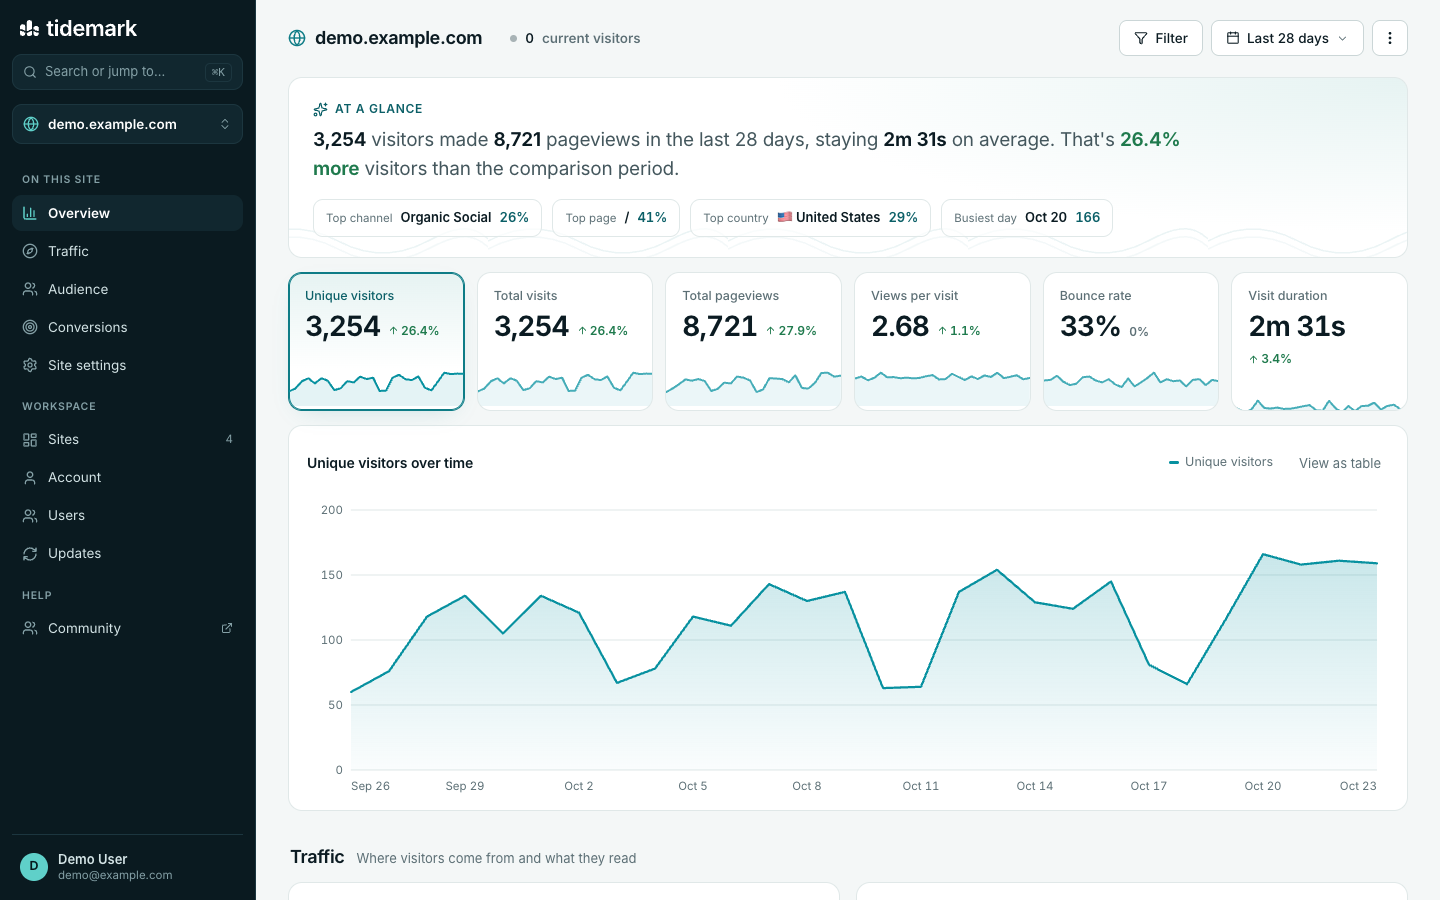
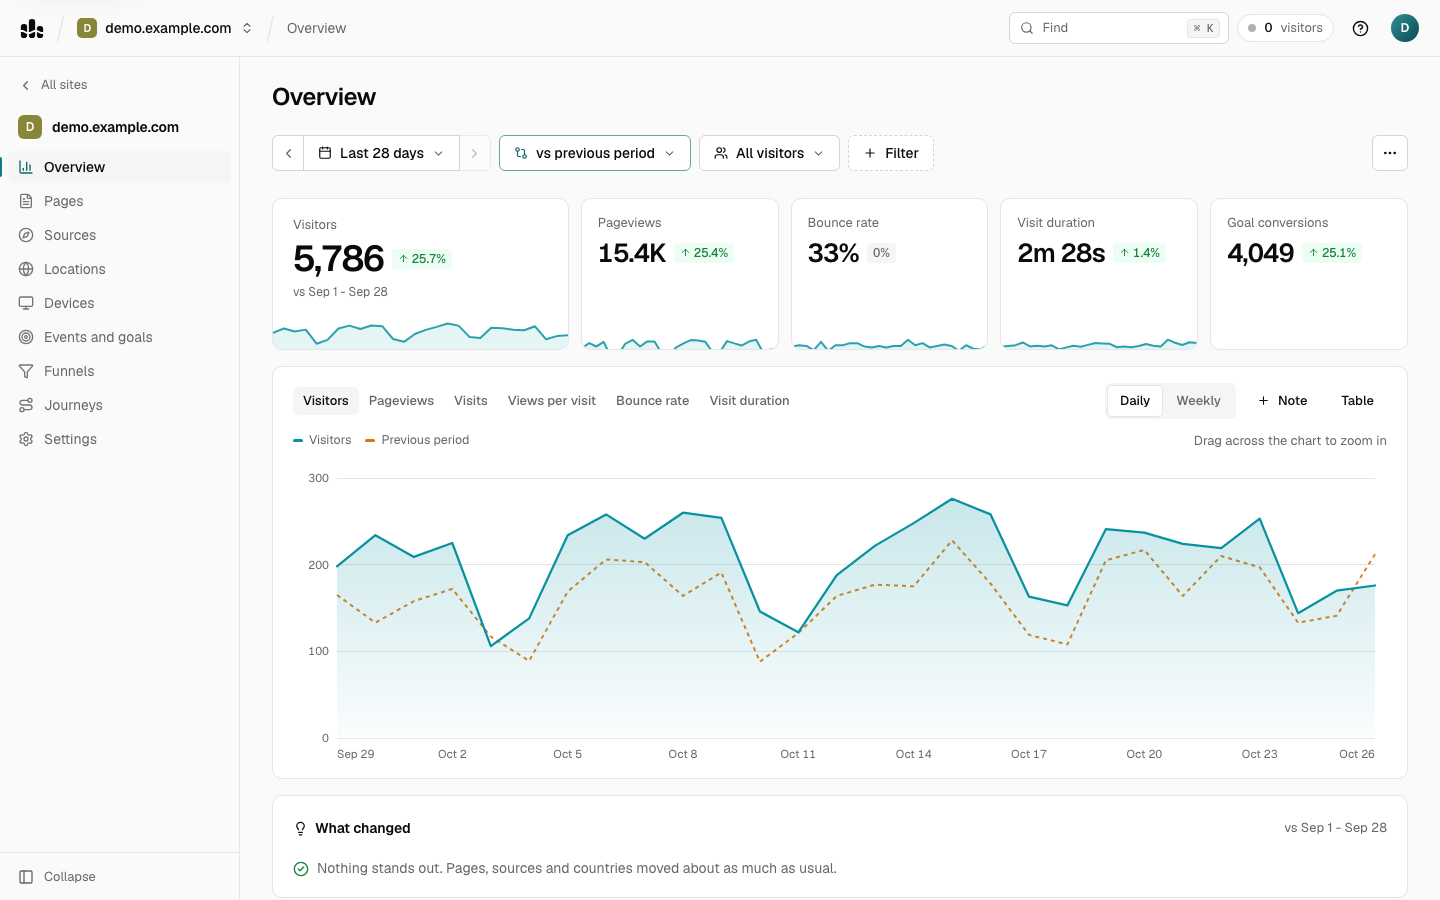
README: new dashboard screenshots, a Tidemark Cloud section, no hosted-version architecture
The screenshots predate the redesign. The README no longer describes how the hosted version is built (the cells decision, the cloud mode setting), and gains a section pointing people who would rather not self-host to Tidemark Cloud.

diff --git a/README.md b/README.md
@@ -24,6 +24,19 @@ Simple, privacy-first web analytics that runs on **ordinary PHP shared hosting**
 - Works on SQLite, MySQL/MariaDB and PostgreSQL
 - Designed to scale out later: swappable event sink, separate analytics database connection, stateless app tier
 
+## Don't want to run it yourself? Tidemark Cloud
+
+The same open-source Tidemark, hosted for you at [tidemarkanalytics.com](https://www.tidemarkanalytics.com): no server, no updates, nothing to install. Sign up, paste one line into your site's `<head>`, and your dashboard is ready.
+
+- **Free to start:** 1 site, 10,000 events a month and 6 months of history, with every report, filter, goal and shared link.
+- **Pro, $7 a month ($70 a year):** unlimited sites, 250,000 events a month, 5 years of history, funnels, revenue, segments, journeys, rollups, alerts and webhooks, and your own logo and color on public dashboards. Need more events? Add packs of 250,000 for $5 whenever you like.
+- **Still private by design:** no cookies and no stored IP addresses, and direct support from inside the app.
+- **Switching?** Import your history from Plausible's CSV export.
+
+[**Try the live demo**](https://app.tidemarkanalytics.com/tidemark) · [**See pricing**](https://www.tidemarkanalytics.com/cloud/) · [**Start free**](https://app.tidemarkanalytics.com/register?utm_source=github&utm_medium=readme&utm_campaign=readme-cloud)
+
+Prefer to host it yourself? Everything below is for you, and it is free under the MIT license.
+
 ## Install on shared hosting (no SSH)
 
 1. Download the latest `tidemark-x.y.z.zip` from [Releases](https://github.com/tidemark-analytics/tidemark/releases/latest) (dependencies are bundled), or build it yourself: `scripts/build-release.sh 0.8.0` → `dist/tidemark-0.8.0.zip`.
@@ -117,8 +130,7 @@ Logo (pictorial mark: pier pilings with a tide line across them), palette, typog
 
 | Variable | Default | Notes |
 |---|---|---|
-| `TIDEMARK_MODE` | `self-hosted` | `cloud` opens registration and enables plan limits |
-| `TIDEMARK_REGISTRATION` | `false` (`true` in cloud) | Allow sign-ups |
+| `TIDEMARK_REGISTRATION` | `false` | Allow sign-ups |
 | `TIDEMARK_INGEST` | `sync` | `queue` buffers writes; drained by `schedule:run` or a worker |
 | `TIDEMARK_ANALYTICS_DB` | *(app DB)* | Separate connection for `visits`, `events` and `event_props` |
 | `TIDEMARK_IGNORE_IP`, `TIDEMARK_HOSTNAMES` | – | Comma-separated lists |
@@ -144,7 +156,7 @@ GET /api/v1/stats/breakdown?site_id=example.com&period=30d&property=visit:source
 
 Filters use `filters=visit:country==DE;event:page==/blog/*`. The dashboard's own JSON endpoints live under `/api/sites/{domain}/stats/…`.
 
-## Architecture & the cloud question
+## Architecture
 
 ```
  browser ──► POST /api/event ──► Collector ──► EventSink ──► analytics DB (visits, events, event_props)
@@ -156,16 +168,9 @@ Filters use `filters=visit:country==DE;event:page==/blog/*`. The dashboard's own
 
 - **Visits, not sessions.** A visit is one row, stitched in the sink: hits from the same visitor within 30 minutes of inactivity extend it (entry/exit page, pageviews, bounce, duration). Reports read visits for most numbers and events for pageviews and goals.
 - **Two logical databases.** Hot, append-only tables go through `TIDEMARK_ANALYTICS_DB`, everything else through the default connection. Tables are keyed by `site_id` and indexed on time, so they partition and shard naturally.
-- **Stateless app tier.** Sessions and cache can move to Redis/DB; any number of PHP workers can serve a cell.
+- **Stateless app tier.** Sessions and cache can move to Redis/DB; any number of PHP workers can serve requests.
 - **Swappable seams.** `EventSink` (writes) and `Stats\Stats` (reads) are the only places that know about the storage engine — a ClickHouse implementation can replace them without touching controllers or the UI.
 - **Privacy by construction.** Visitor ids are `hash(site, ip, user-agent, daily salt)`; raw IPs and user agents are never stored, and because the salt changes every day a visitor cannot be followed from one day to the next.
-
-**Decision for the hosted version: multi-tenant "cells", not an installation per customer.**
-Per-customer installs look attractive for privacy, but at analytics price points they multiply operational cost (upgrades, migrations, monitoring, backups, support) linearly with customers, make free tiers impossible and prevent any shared capacity planning. Privacy is better achieved by what the product *stores* (no IPs, no cookies, rotating salts) plus strict tenant scoping on every query than by where the PHP files live. So:
-
-1. Run the same codebase as a **cell** (`TIDEMARK_MODE=cloud`): app servers + a metadata DB + one or more analytics DBs. New cells (e.g. EU, US) give data-residency; customers are pinned to a cell.
-2. Scale reads/writes by enabling `TIDEMARK_INGEST=queue`, moving the analytics connection to a dedicated (replicated) server, then swapping in a columnar sink when a cell outgrows MySQL/Postgres.
-3. Offer **dedicated, single-tenant deployments** as an enterprise/compliance tier — the self-hosted build is exactly that, so it costs nothing extra to support.
 
 ## Project name
 
